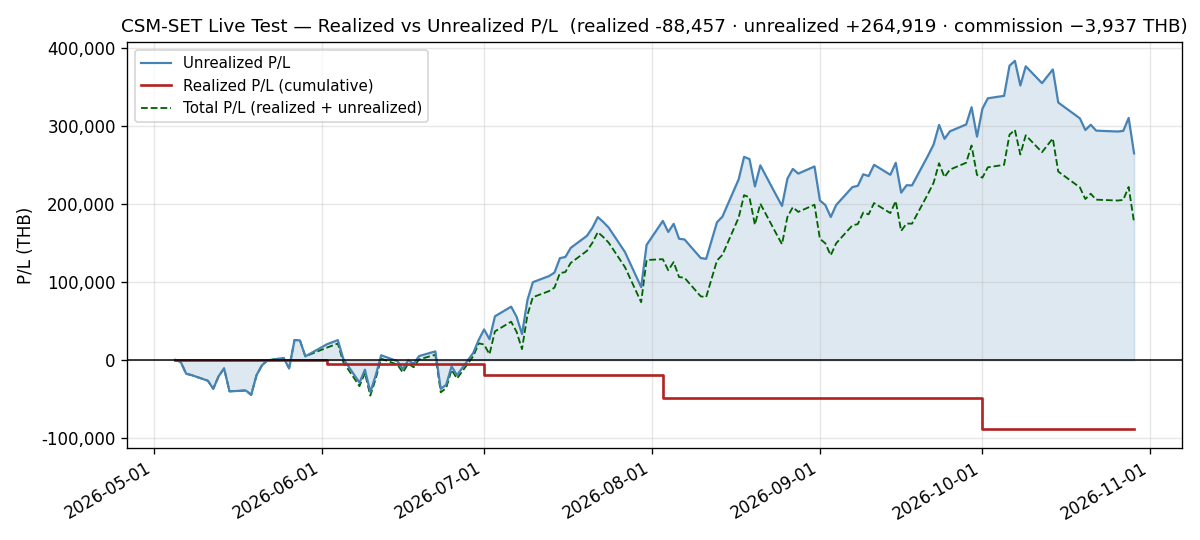
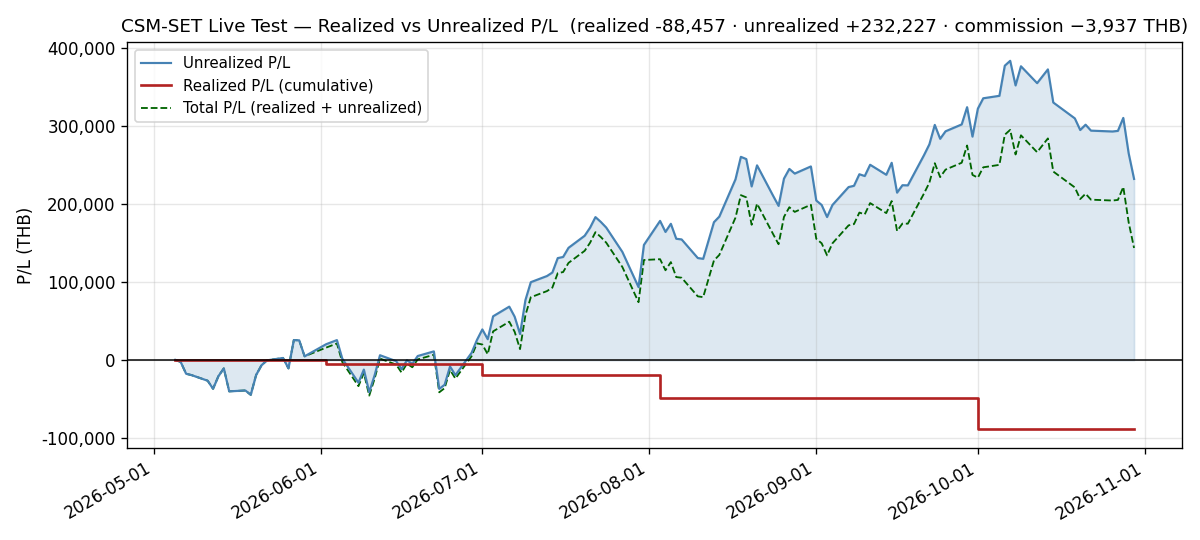
docs(live-test): add daily log for 2026-10-30 — the circuit breaker trips at the October evaluation close; NAV0 for the scored window
NAV 1,262,159.89 (−32,692.00, −2.5248%) with no trades, the lowest close since
2026-09-03. Total Return on NAV +12.69%. Breadth: 1 up, 8 down, 1 flat; the
SET fell −1.6839% to its lowest close since 2026-05-19, only +0.3740% above
its SMA200.

- Breaker: the registered procedure (DrawdownCircuitBreaker 60 / −10% / −5%
  x21) returns TRIPPED at this close, with a rolling drawdown of −10.7057% and
  an equity fraction of 0.20. The control on the series to 2026-10-29 returns
  NORMAL. Under the registration the book is scaled to 20% equity at the
  2026-11-02 ATO; the plan is in the October review.
- EMA100 per holding: EASTW (−10.36%) and FORTH (−5.71%) are below their own
  EMA100 at this close. GUNKUL is +0.06% above.
- This close is NAV0 = 1,262,159.89 for the 2026-11-02 to 2026-12-30 window.

pnl.csv extended to 121 rows. P/L PNG regenerated (365f79e5 → 7f77ebda); the
three NAV PNGs are byte-identical here (the month-end NAV-chart regeneration
ships with the October review). Checker 388/0; 6 of 6 mutants caught (M6 after
adding the carried-caveat guard).

Claude-Session: https://claude.ai/code/session_01VKyqnmKmz6Hh9ErHRFMhFr

diff --git a/docs/live-test/daily/2026-10-30.md b/docs/live-test/daily/2026-10-30.md
@@ -1,0 +1,304 @@
+# Daily Log — 2026-10-30 (Friday)
+
+**As of:** 2026-10-30, Asia/Bangkok
+**Phase:** C — Extended Observation
+**Day:** 122 / 41 trading days remaining in 2026
+**Status:** 🟡 **REGISTERED, NOT YET SCORED — and this close is the scored window's anchor, NAV₀ = 1,262,159.89 THB.** The forward scoring pre-registration (`reports/2026-10-27-forward-scoring-pre-registration.md`, `cc7bcb1`; confirmed *"keep"* 2026-10-29, `4606aa4`) scores **2026-11-02 to 2026-12-30** from this close. 🔴 **NAV closes at 1,262,159.89 THB, down −32,692.00 (−2.5248%)** with no trades, the lowest close since 2026-09-03. Total Return on NAV is **+12.69%**. 🔴 **THE CIRCUIT BREAKER TRIPS AT THIS CLOSE.** NAV stands **151,324.00 (−10.7057%) below the 2026-10-07 high**, past the design rule's −10% 60-session trigger, and the registered procedure returns **TRIPPED**. This is the month-end evaluation, so under the registration the book is **scaled to 20% equity at the 2026-11-02 ATO** (`monthly/2026-10.md`). 🔴 **EASTW and FORTH close below their own EMA100** and are sold by the per-holding rule. Breadth is **1 up, 8 down, 1 flat** against a SET that fell **−1.6839%** to its lowest close since 2026-05-19, **only 0.3740% above its SMA200**.
+
+---
+
+## Execution Summary
+
+**No trades today.** The October rotation was executed at the **2026-10-01 ATO** (SELL MGC, BUY CNT; `configs/live_portfolio.yaml` at `715eeb3`), so the file is unchanged since then and remains valid. Realized P/L for the session is **0.00 THB** and no commission was paid. **Today is the October evaluation**, the first under the 2026-10-27 registration. Its trade list, for the **2026-11-02 ATO**, is in `monthly/2026-10.md`. It is a plan; nothing has been placed.
+
+---
+
+## Portfolio Snapshot
+
+> 🟡 **Every figure in this section is REGISTERED, NOT YET SCORED.** This close is NAV₀ for the scored window, which begins with the 2026-11-02 session. It is produced from the **reconstructed series** (`csm.adapters.hooks._reconstruct_live_equity`, which reprices `configs/live_portfolio.yaml` against `data/processed/prices_latest.parquet`) and reconciled against **`db_gateway.daily_performance`**. Where a number below is quoted from a stored series, the series is named.
+
+`Avg Cost` is the commission-inclusive per-share basis carried from `configs/live_portfolio.yaml` (4-decimal precision); `Cost Basis = shares × Avg Cost`, and `U.PL % = MV / Cost Basis − 1`. Per-symbol values reproduce the broker statement exactly.
+
+| # | Symbol | Shares | Avg Cost | Last Price | Market Value (THB) | Cost Basis (THB) | U.PL % |
+|---|--------|-------:|---------:|-----------:|--------------------:|-----------------:|-------:|
+| 1 | KCE | 2,600 | 39.0655 | 68.75 | 178,750.00 | 101,570.30 | +75.99% |
+| 2 | GUNKUL | 30,800 | 2.9246 | 4.64 | 142,912.00 | 90,077.68 | +58.65% |
+| 3 | INSET | 42,000 | 3.0848 | 4.30 | 180,600.00 | 129,561.60 | +39.39% |
+| 4 | HANA | 3,000 | 35.8070 | 45.25 | 135,750.00 | 107,421.00 | +26.37% |
+| 5 | IRPC | 56,600 | 2.3037 | 2.60 | 147,160.00 | 130,389.42 | +12.86% |
+| 6 | EASTW | 24,000 | 4.2672 | 4.16 | 99,840.00 | 102,412.80 | −2.51% |
+| 7 | EPG | 17,300 | 5.9099 | 6.00 | 103,800.00 | 102,241.27 | +1.52% |
+| 8 | SMT | 20,400 | 5.8097 | 7.20 | 146,880.00 | 118,517.88 | +23.93% |
+| 9 | FORTH | 5,300 | 16.1270 | 13.30 | 70,490.00 | 85,473.10 | −17.53% |
+| 10 | CNT | 18,200 | 3.3456 | 3.00 | 54,600.00 | 60,889.92 | −10.33% |
+
+### Portfolio summary
+
+| Metric | Value |
+|--------|-------|
+| Total Cost Basis | 1,028,554.97 THB |
+| Total Market Value | 1,260,782.00 THB |
+| Unrealized P/L | +232,227.03 THB (+22.58%) |
+| Realized P/L (today) | **0.00 THB** |
+| Realized P/L (cumulative, since inception) | **−88,456.67 THB** |
+| Commission paid (cumulative) | **−3,936.97 THB** |
+
+### Account summary
+
+| Metric | Value |
+|--------|-------|
+| Remaining Cash | 1,377.89 THB |
+| Total NAV | 1,262,159.89 THB |
+| Total Return on NAV | +12.69% |
+
+> **Cost-basis note:** Total Cost Basis is unchanged at **1,028,554.97 THB** since the 2026-10-01 rotation, and the reconciliation delta against Σ per-symbol (`shares × avg_cost`, 4-dp) is **0.00 THB**.
+>
+> 🔴 **Above/below cost: 7 up / 3 down, from 8 / 2.** **EASTW went below cost** at **−2.51%** (−2,572.80 THB); it needs **+2.58%** to regain it. **FORTH** and **CNT** remain below.
+>
+> - 🔴 Lowest since 2026-08-03: **GUNKUL's +58.65%** and **EASTW's −2.51%**. Since 2026-08-28: **IRPC's +12.86%**. Since 2026-09-03: **HANA's +26.37%**. Since 2026-09-28: **KCE's +75.99%**. Since 2026-10-05: **FORTH's −17.53%**. Since 2026-10-22: **SMT's +23.93%** and **CNT's −10.33%**.
+> - 🟢 **INSET's +39.39%** is its highest since 2026-10-20.
+> - **EPG** is unchanged at **+1.52%**.
+>
+> **Dispersion narrowed to 93.52pp** (KCE +75.99% to FORTH −17.53%), from 93.58pp, **the narrowest since 2026-10-27**: the leader KCE lost **1.92pp** of cost and the laggard FORTH lost **1.86pp**.
+>
+> **Total P/L check:** realized + unrealized = −88,456.67 + 232,227.03 = **+143,770.36 THB**, down from +176,462.36 by exactly the −32,692.00 session move.
+
+---
+
+## Day-over-Day Change (vs Thursday October 29)
+
+| Symbol | Oct 29 Close | Oct 30 Close | Change | Change % | MV Contribution (THB) |
+|--------|-------------:|-------------:|-------:|---------:|----------------------:|
+| INSET | 4.26 | 4.30 | +0.04 | +0.94% | +1,680.00 |
+| EPG | 6.00 | 6.00 | 0.00 | 0.00% | 0.00 |
+| FORTH | 13.60 | 13.30 | -0.30 | -2.21% | -1,590.00 |
+| CNT | 3.10 | 3.00 | -0.10 | -3.23% | -1,820.00 |
+| KCE | 69.50 | 68.75 | -0.75 | -1.08% | -1,950.00 |
+| IRPC | 2.66 | 2.60 | -0.06 | -2.26% | -3,396.00 |
+| SMT | 7.45 | 7.20 | -0.25 | -3.36% | -5,100.00 |
+| EASTW | 4.42 | 4.16 | -0.26 | -5.88% | -6,240.00 |
+| GUNKUL | 4.86 | 4.64 | -0.22 | -4.53% | -6,776.00 |
+| HANA | 47.75 | 45.25 | -2.50 | -5.24% | -7,500.00 |
+| **Total** | | | | **-2.53%** | **-32,692.00** |
+
+**Breadth: 1 up, 8 down, 1 flat.**
+
+> The `Change %` on the Total row is the **market-value** change (−32,692.00 / 1,293,474.00 = −2.5275%), not the NAV change (−32,692.00 / 1,294,851.89 = −2.5248%). The two differ only because cash sits in the NAV denominator and not in the market-value one.
+
+**The fallers' −34,372.00 outweighed the one riser's +1,680.00.** Over the last two sessions NAV fell **−78,173.00**.
+
+- **Riser:** **INSET +0.94% (+1,680.00)**, at its highest close since 2026-10-20.
+- **Unchanged:** **EPG at 6.00**.
+- **Fallers:**
+  - **HANA −5.24% (−7,500.00)**, its worst session since 2026-08-20, at its lowest since 2026-09-03;
+  - **GUNKUL −4.53% (−6,776.00)**, its worst since 2026-09-30, at **4.64, its lowest close since 2026-07-07**;
+  - **EASTW −5.88% (−6,240.00)**, its worst since 2026-10-27, at **4.16, its lowest close since 2026-06-26**, below cost;
+  - **SMT −3.36% (−5,100.00)**, at its lowest since 2026-10-22;
+  - **IRPC −2.26% (−3,396.00)**, at its lowest since 2026-08-28;
+  - **KCE −1.08% (−1,950.00)**, at its lowest since 2026-09-28;
+  - **CNT −3.23% (−1,820.00)**, its worst since 2026-10-15, at its lowest since 2026-10-22;
+  - **FORTH −2.21% (−1,590.00)**, at its lowest since 2026-10-05.
+
+**The book fell −2.5248% against a SET that fell −1.6839%**, a **−0.8409pp** difference. That is a same-session arithmetic result, not a performance comparison (Market Context).
+
+---
+
+## Market Context
+
+| Indicator | Value | Source |
+|-----------|-------|--------|
+| SET Index | 1,518.59 | tvkit (TradingView) |
+| SET Open / High / Low | 1,522.28 / 1,529.48 / 1,511.58 | tvkit |
+| SET 200-day SMA | 1,512.9322 | tvkit (TradingView) |
+| Regime Estimate | BULL | SET +0.37% above SMA200 |
+
+> ⚠ **This is context, NOT a benchmark comparison, and it must not be read as one.**
+>
+> - **Different price bases.** `SET:SET` is a **price index**; the strategy series above is priced on **dividend-adjusted** bars (since `e04a292`, 2026-08-09). The difference is one-sided in the strategy's favour, and it is not small: measured 2026-09-11 over 2024-03-19 → 2026-09-10, the dividend adjustment is worth **+12.09 percentage points** on this universe, roughly **+4.8%/yr**.
+> - **Different windows.** The engine's own benchmark loader is given **no date bounds**. It compares **600 index points**, from 2024-05-10 in today's panel and a start that moves forward one session per session, against a strategy series that starts at the 2026-10-01 `entry_date`.
+> - **No alpha, excess return or outperformance figure is computed anywhere in this log.** The 2026-10-27 registration measures tracking error against this index only inside the scored window, and labels it a risk metric (§5).
+
+---
+
+## Regime State
+
+- **Detected regime:** BULL — SET (1,518.59) is above SMA200 (1,512.9322) by +0.3740%
+- **SMA200 position:** 1,512.9322 — SET closing at 1,518.59
+- **3-month return:** −7.46% (window-sensitive — see Notes)
+- **No regime-driven action** under the registration. The SET closed **−3.22% below its own EMA100**, the index-overlay condition. Under the registration that condition is reported and **not applied** (§4); the October review records it.
+
+**The SET path from the 2026-09-08 high reads 1,621.89 → 1,617.89 → 1,615.07 → 1,604.52 → 1,591.07 → 1,578.66 → 1,562.73 → 1,583.34 → 1,584.15 → 1,598.03 → 1,604.44 → 1,610.70 → 1,602.58 → 1,607.63 → 1,602.37 → 1,594.30 → 1,559.01 → 1,563.91 → 1,571.62 → 1,576.45 → 1,582.22 → 1,584.63 → 1,570.61 → 1,577.65 → 1,571.74 → 1,575.88 → 1,573.01 → 1,571.72 → 1,554.94 → 1,556.09 → 1,562.67 → 1,579.03 → 1,575.02 → 1,566.10 → 1,544.60 → 1,518.59**.
+
+- **Today:** a **−26.01 point, −1.6839%** session, the index's worst since 2026-09-30. It closed at its **lowest since 2026-05-19**, **−6.3691%** below the 2026-09-08 high.
+- **Range:** **17.90 points**, against 20.72 the prior session. The index opened at 1,522.28, below the prior close, reached 1,529.48, and closed 7.01 points above its low.
+- **Cushion fell 2.1806% → 0.3740%, a −1.8066pp step**: the largest one-session narrowing since 2026-09-30, leaving the cushion its **narrowest since 2025-09-04**. SMA200 rose again to **1,512.9322** (+1.2946).
+- 🔴 **A BULL→BEAR crossing needs the index only 5.66 points lower**, a further −0.37% at today's SMA200.
+
+The 3-month figure fell from −5.78% to −7.46%, its start bar moving from 2026-07-22 (1,639.34) to 2026-07-23 (1,641.03).
+
+---
+
+## Sector Concentration
+
+Groupings are those of the 2026-10-01 rotation (CONS for CNT, SET-official) and are unchanged today; percentages are directly comparable to the prior session for every sleeve.
+
+| Sector | Market Value (THB) | % of NAV | Limit | Status |
+|--------|--------------------:|---------:|-------|--------|
+| Energy & Utilities (ENERG) | 389,912 | 30.8924% | 35% | OK — 51,843.96 THB of headroom |
+| Electronic Components (ETRON) | 461,380 | 36.5548% | 35% | 🔴 **OVER — 19,624.04 THB, accepted known violation** |
+| ICT | 251,090 | 19.8937% | 35% | OK |
+| Construction Materials (CONMAT) | 103,800 | 8.2240% | 35% | OK |
+| Construction Services (CONS) | 54,600 | 4.3259% | 5% floor | 🔴 **UNDER — 8,507.99 THB, accepted known violation** |
+
+🔴 **ETRON's excess narrowed to 19,624.04 THB, its narrowest since 2026-10-27**, from 22,731.84 on 2026-10-29.
+
+- It fell **−0.2008pp to 36.5548%**, its lowest weight since 2026-10-27.
+- The sleeve's market value fell 14,550.00 (HANA −7,500.00, SMT −5,100.00, KCE −1,950.00), while the cap fell 11,442.20 with NAV.
+- **It narrowed by losing value, not by a trade, and it remains over the cap.** [[TK-0279]]
+
+🔴 **CNT's gap widened to 8,507.99 THB, its widest since 2026-10-28**, from 8,322.59.
+
+- CNT fell −1,820.00, more than the floor fell (1,634.60 with NAV); the gap grew by the **185.40** difference.
+- **CONS fell −0.0314pp to 4.3259%**, its lowest since 2026-10-28.
+- **CNT clears at 3.4921, +16.40%.** [[TK-0279]]
+
+**The other sleeves:**
+
+- **ENERG fell −0.4876pp to 30.8924%**, its lowest since 2026-08-03: GUNKUL (−6,776.00), EASTW (−6,240.00) and IRPC (−3,396.00) all fell.
+- **ICT rose +0.5092pp to 19.8937%**, its highest since 2026-10-12. INSET rose while FORTH fell, and the sleeve gained against a falling NAV.
+- **CONMAT rose +0.2076pp to 8.2240%** with EPG unchanged; its highest since 2026-10-28.
+- The two large sleeves hold **67.4472% of NAV** together.
+
+**At the ceiling end, INSET is now the largest position**, for the first time since 2026-10-12:
+
+| Name | Weight | Inside the 15% ceiling | Goes over at |
+|---|---:|---:|---|
+| INSET | 14.3088% | 8,723.98 THB | 4.5444 (+5.68%) |
+| KCE | 14.1622% | 10,573.98 THB | 73.5346 (+6.96%) |
+
+INSET leads KCE by 1,850.00 THB, and its weight is its highest since 2026-10-12. At the floor end, **FORTH is 5.5849%**, its highest weight since 2026-10-27. It is 7,382.01 THB above the 5% floor and goes under at **11.8339 (−11.02%)**.
+
+---
+
+## Risk Notes
+
+1. 🟡 **THE OCTOBER EVALUATION RAN ON THIS CLOSE — the first under the registration, and NAV₀ for the scored window.**
+   - The registration is unamended (`cc7bcb1`), confirmed *"keep"* on 2026-10-29 (`4606aa4`).
+   - **NAV₀ = 1,262,159.89 THB**, the anchor of the 2026-11-02 to 2026-12-30 window.
+   - The evaluation's verdicts, rule by rule, and the ATO trade list are in `monthly/2026-10.md`. Nothing is placed until the operator places it, and `configs/live_portfolio.yaml` changes only after fills.
+2. 🔴 **NAV fell −32,692.00 (−2.5248%) to 1,262,159.89** (`daily_performance`).
+   - It is the **lowest close since 2026-09-03**, and the two sessions to it lost **−78,173.00**.
+   - It stands **151,324.00 (−10.7057%) below the 2026-10-07 high**, and **90,051.00 below the book's 2026-10-01 post-rotation value** (1,352,210.89, `equity_curve`).
+   - Total Return on NAV is **+12.69%**.
+3. 🔴 **ACCEPTED KNOWN VIOLATION — ETRON 36.5548%, 19,624.04 THB over the 35% cap** (operator decision D2), **its narrowest excess since 2026-10-27**. It narrowed from 22,731.84 without a trade. Under the registration, bounds bind at construction on the names being traded (§8). [[TK-0279]]
+4. 🔴 **ACCEPTED KNOWN VIOLATION — CNT 4.3259%, 8,507.99 THB under the 5% floor and the whole CONS sleeve** (D2), **its widest gap since 2026-10-28**. CNT clears at **3.4921 (+16.40%)**. [[TK-0279]]
+5. 🔴 **EMA100, per holding, at the evaluation close — two holdings below.** EMA100 = `ewm(span=100, adjust=False, min_periods=100)` of each close in `prices_latest.parquet` (§4).
+
+   | Name | Close | Own EMA100 | Distance |
+   |---|---:|---:|---:|
+   | EASTW | 4.16 | 4.6410 | **−10.36%** (below) |
+   | FORTH | 13.30 | 14.1058 | **−5.71%** (below) |
+   | GUNKUL | 4.64 | 4.6374 | +0.06% |
+
+   - Every other holding is at least **+1.83%** (INSET) above its own EMA100.
+   - **The SET closed −3.22% below its own EMA100** (1,569.1037). That is the index-overlay condition, reported and not applied (§4).
+6. 🟢 **`equity_curve` and `daily_performance` agree on the new day**, both **1,262,159.89**. The 2026-10-01 rows still differ by 2,385.81 by design (post-trade against pre-trade).
+7. 🟢 **Today's `daily_return` (−2.5248%) equals this log's headline.**
+   - ⚠ `cumulative_return` is anchored to the 2026-10-01 `entry_date` and reads **−6.66%** against a true **+12.69%**; its anchor is the post-rotation value of Risk Note 2.
+   - `combined_drawdown` reads **−10.71%**: the maximum drawdown inside the post-`entry_date` window, **set today** and equal to today's distance from the high.
+   - Both are the documented truncations, not new defects.
+8. 🔴 **CIRCUIT BREAKER — TRIPPED.**
+   - **Procedure:** `DrawdownCircuitBreaker` with the recorded parameters (60 sessions, −10% trip, −5% recovery over 21 sessions), run on the `daily_performance` NAV series. It returns **TRIPPED** (from NORMAL), with a rolling drawdown of **−10.7057%** and an equity fraction of **0.20**.
+   - **Negative control:** the same call on the series to 2026-10-29 returns NORMAL (−8.3929%).
+   - NAV closed **9,975.61 THB below the 1,272,135.50 trip level**.
+   - **Under the registration the evaluation acts on it: the book is scaled to 20% equity at the 2026-11-02 ATO** (§6 #8). The scaling and its sizing are in `monthly/2026-10.md`.
+   - **Recovery** needs the 60-session rolling drawdown above −5%, held for 21 sessions. The 2026-10-07 peak stays inside the window through 2026-12-30, 55 sessions after it, so recovery inside the scored window needs NAV back above **1,342,809.70**.
+   - **The 1,064,000 THB line** (5% below `starting_nav`) has NAV **+198,159.89** (15.70%) above it. Under the registration it is a reporting line and carries no action.
+9. 🟢 **The refresh ran clean** on image `e56ad7660dd4`.
+   - Attempt 1 recovered all 201 universe symbols (`requested=201 recovered=201 still_failing=0`) in **125.169s**, and **no symbol failed** (`failures=0`, `held_symbols_failed=0`).
+   - The container has not restarted since the 2026-10-28 20:49 BKK recreate.
+10. 🟢 **The uncredited dividend total holds at 8,927.00 THB**: KCE 1,560.00, INSET 2,100.00, MGC 2,208.00, FORTH 795.00, IRPC 2,264.00.
+    - That is **0.71% of NAV** and **6.21%** of the +143,770.36 total P/L.
+    - There is still no dividend-accrual path in the book (registration §8).
+11. ⚠ **INFRA — the image runs one library release behind the lock, by operator choice.**
+    - The lock was updated on 2026-10-29 (`89ad35b`), and the repository audit is green.
+    - The rebuild is deferred until after the 2026-11-02 ATO (operator option B), so this evaluation's refresh ran on the image that also ran the 2026-10-28 and 2026-10-29 refreshes.
+    - **`:8100` is still bound to loopback only.**
+12. ⚠ **DOC — the `csm-set-daily-log` skill's `daily_return` guidance remains stale.**
+    - Its Step 3 still calls the field *"an open defect, not yet fixed in code"*; **it was fixed 2026-09-02**.
+    - Today `daily_return` reads **−2.5248%** and agrees with this log's headline exactly.
+    - **Thirty-sixth log to carry this.**
+13. **Open decisions — answered for the scored window only, by the registration's §8.**
+
+    | Decision | Registered for the window |
+    |---|---|
+    | EMA100 | per holding |
+    | Bands | bind at construction, on the names being traded |
+    | Sizing | current proceeds-plus-cash practice (`fix-notional-not-shares`) |
+    | Price history | the published NAV, frozen at publication |
+    | Dividends | not credited, reported beside each score |
+
+    The wider questions stay open where they are filed ([[TK-0279]], the event reports).
+
+---
+
+## Notes
+
+- **Scheduled refresh completed via APScheduler with zero failures.**
+  - `"Scheduled daily_refresh completed"` at **2026-10-30T11:02:07Z** (18:02 BKK).
+  - It was the 18:00 cron firing (`cron[... day_of_week='mon-fri', hour='18', minute='0']`, started 11:00:00Z), not a manual `POST /api/v1/scheduler/run/daily_refresh`.
+  - Receipt: `symbols_fetched=211, failures=0, duration_seconds=125.169, held_symbols_fetched=10, held_symbols_failed=0, retry_attempts_used=0, index_fetched=true`, corroborated by `results/.tmp/last_refresh.json`.
+  - The held phase ended `requested=10 recovered=10 still_failing=0` at 11:00:07Z.
+  - The next run is scheduled for **2026-11-02 18:00 +07**.
+- **The container runs image `e56ad7660dd4`.**
+  - `Created` 2026-10-28T13:49:18Z, `StartedAt` 13:49:23Z, `RestartCount` 0. `FinishedAt` is unset (0001-01-01) because this container has never stopped.
+  - The host has not rebooted since 2026-10-06 (`uptime -s` 2026-10-06 10:46:02).
+- **`SET:THCOM` was fetched with 600 bars again.**
+- **The price panel and the prior log agree on all ten names**, so **nothing was restated**.
+- **The panel's row count fell 909 → 908.** Every row still carries a 09:55 Bangkok stamp, the column count is unchanged at **211**, and no session date is duplicated.
+- **Row-integrity checks pass.** `db_csm_set.equity_curve` holds **exactly one row per trading day at `00:00:00+00`** (121 rows, 121 dates, none off midnight), and today's row equals `daily_performance.total_value`.
+- **`configs/live_portfolio.yaml` is unchanged** since the 2026-10-01 rotation (`715eeb3`).
+- **The P/L identity holds and its residual is unchanged.** `realized_cum + unrealized − (NAV − starting_nav)` = −88,456.67 + 232,227.03 − 142,159.89 = **1,610.47 THB**, the value it stepped to at the 2026-10-01 rotation.
+- **Every figure was verified rather than asserted.**
+  - Σ position market value equals Total Market Value exactly (1,260,782.00).
+  - **Total NAV (1,262,159.89) equals `db_gateway.daily_performance.total_value` to the satang.**
+  - Σ (shares × price change) equals the market-value change (−32,692.00) exactly.
+  - The sector table sums to Total Market Value exactly.
+  - Σ per-symbol cost basis matches Total Cost Basis with a **0.00** delta, and the position count is 10.
+  - All money arithmetic used `Decimal` with explicit half-up rounding, and so did SMA200:
+
+    | Name | Weight | Distance | Level |
+    |---|---:|---|---|
+    | ETRON | 36.5548% | 19,624.04 THB over the cap | — |
+    | CNT | 4.3259% | 8,507.99 THB under a 63,107.99 floor | clears at 3.4921 |
+    | FORTH | 5.5849% | — | under at 11.8339 |
+    | KCE | 14.1622% | — | over at 73.5346 |
+    | INSET | 14.3088% | — | over at 4.5444 |
+- **Realized P/L and commission ledger — both unchanged, no trades today.** Realized cumulative **−88,456.67 THB** (2026-06-02 −4,351.87 · 2026-07-01 −14,964.06 · 2026-08-03 −29,775.45 · 2026-10-01 −39,365.29). Commission cumulative **−3,936.97 THB**.
+- **Capital events to date, unchanged.** `starting_nav` 1,120,000 after 1,000,000 → 1,100,000 (2026-06-04, +100,000) → 1,120,000 (2026-08-03, +20,000). The 2026-10-01 rotation added no capital.
+- **Every superlative was computed, and each names its window.**
+
+  | Claim | Window | Source |
+  |---|---|---|
+  | Best-, worst-, highest- and lowest-since dates of the named stocks; U.PL readings; sector, INSET, KCE and FORTH weight readings; the dispersion | since 2026-08-03 | all 60 prior published logs; for prices, the panel from 2026-08-03 |
+  | GUNKUL's and EASTW's low closes | the whole panel, which starts 2024-05-10 | the panel |
+  | ETRON's excess, CNT's gap, CONS's weight | the breach that began 2026-10-01 | published logs |
+  | NAV figures, the drawdown, the post-rotation value | full series | `db_gateway.daily_performance`, `db_gateway.portfolio_snapshot`, `db_csm_set.equity_curve` |
+  | Index figures, the cushion | bars fetched back to 2024-09-06 | tvkit |
+- **3-month return figure is window-sensitive.** −7.46% is measured over the trailing 66 bars from today's close (start bar 2026-07-23, 1,641.03) and moves materially with the start bar (Regime State). The regime estimate does not use it.
+- **Follow-ups for the next session (Monday 2026-11-02 18:00 +07), the first scored session.**
+
+  | | Item | Level |
+  |---|---|---|
+  | (a) | the ATO rotation and fills | trade list in `monthly/2026-10.md` |
+  | (b) | the breaker state, threaded each session | TRIPPED; recovery above 1,342,809.70 |
+  | (c) | the regime cushion | 5.66 points above a crossing |
+  | (d) | `configs/live_portfolio.yaml` | updated only from the operator's fills |
+
+  **The eight follow-ups from 2026-10-29 are closed above:** (a) Risk Note 8, (b) Risk Note 5, (c) Risk Note 3, (d) Risk Note 4, (e) Sector Concentration, (f) Sector Concentration, (g) the cost-basis note (EASTW below cost; EPG unchanged), (h) Regime State.
+- **Calendar.** 2026-10-30 was a trading session.
+  - The 18:00 firing read the banked SET holiday calendar (`results/.tmp/set_holidays.json`) at `captured_at 2026-10-30T10:50:09Z`.
+  - It lists the next 2026 closures as **2026-12-07** and **2026-12-10**.
+  - The next session is **2026-11-02**.
+  - No trading hours are stated anywhere in this log.
+- Data fetched via tvkit (TradingView, free tier): all 10 held-symbol prices from the 18:00 BKK scheduled-cron refresh; SET Index context anchored explicitly to the 2026-10-30 bar. ⚠ **The vendor back-adjusts a symbol's entire history on an ex-dividend date**, so any prior-session price quoted here is the vendor's *current* view of that session and not necessarily what was published at the time.

diff --git a/docs/live-test/graphs/README.md b/docs/live-test/graphs/README.md
@@ -3,7 +3,7 @@
 _🟢 **All four PNGs are on ONE date — the September month-end, 2026-09-30.** The three **NAV** charts
 (`equity_curve`, `drawdown`, `monthly_returns`) were regenerated on 2026-09-30 from `nav_actual.csv` /
 `nav_twr.csv` extended to **102 points** (2026-05-04 → 2026-09-30). `pnl_realized_unrealized.png` is newer:
-regenerated on 2026-10-29 from `pnl.csv` (**120 rows**, through 2026-10-29; its newest realized step is the 2026-10-01 rotation's). ⚠ **The September rows of the two NAV CSVs
+regenerated on 2026-10-30 from `pnl.csv` (**121 rows**, through 2026-10-30; its newest realized step is the 2026-10-01 rotation's). ⚠ **The September rows of the two NAV CSVs
 come from `db_gateway.daily_performance`, not `equity_curve`** — IRPC's 2026-09-09 restatement rewrote the
 `equity_curve` rows it would otherwise have supplied; see the 2026-09-30 History entry. `pnl.csv` is built
 from the daily logs' figures (the un-restated `daily_performance` basis), so it does not agree with
@@ -241,14 +241,28 @@ restatement has rewritten `equity_curve` rows inside the month being appended, *
 | `monthly_returns.png` | May **+0.33%** · Jun **+1.44%** · Jul **+9.53%** · Aug **+5.68%** · Sep **+2.90%** (no flow in September, so the TWR and actual-NAV figures agree) |
 | **August bar is the TWR figure** | **+5.68%**, NOT the reported +7.40% and NOT the ex-injection +5.77%. Feeding `nav_actual.csv` instead reproduces the documented failure mode — **Jun +11.62%** and Aug +7.40% |
 | June bar vs the June review | must read **+1.44%**, not +11.62% |
-| `pnl_realized_unrealized.png` *(the 2026-10-29 PNG, through 10-29)* | realized **−88,456.67** · unrealized **+264,919.03** · commission **−3,936.97** THB; the realized line is **flat except at 2026-06-02, 2026-07-01, 2026-08-03 and 2026-10-01** — **four** steps. *(The 2026-10-28 PNG read the same realized and commission with unrealized +310,400.03 at 119 points; the 2026-10-27 PNG read the same realized and commission with unrealized +293,787.03 at 118 points; the 2026-10-26 PNG read the same realized and commission with unrealized +293,003.03 at 117 points; the 2026-10-22 PNG read the same realized and commission with unrealized +294,101.03 at 116 points; the 2026-10-21 PNG read the same realized and commission with unrealized +301,696.03 at 115 points; the 2026-10-20 PNG read the same realized and commission with unrealized +294,904.03 at 114 points; the 2026-10-19 PNG read the same realized and commission with unrealized +309,815.03 at 113 points; the 2026-10-15 PNG read the same realized and commission with unrealized +330,143.03 at 112 points; the 2026-10-14 PNG read the same realized and commission with unrealized +372,572.03 at 111 points; the 2026-10-12 PNG read the same realized and commission with unrealized +354,949.03 at 110 points; the 2026-10-09 PNG +376,567.03 at 109; the 2026-10-08 PNG +352,021.03 at 108; the 2026-10-07 PNG +383,551.03 at 107; the 2026-10-06 PNG +377,303.03 at 106; the 2026-10-05 PNG +338,709.03 at 105; the 2026-10-02 PNG +335,559.03 at 104; the 2026-10-01 PNG +322,278.03 at 103.)* *(The 2026-08-31 PNG read:* realized **−49,091.38** · unrealized **+248,232.35** · commission **−3,735.16** THB; the realized line is **flat except at 2026-06-02, 2026-07-01 and 2026-08-03** — **three** steps.) *(The superseded 2026-08-28 render showed −49,091.38 / +239,078.35 at 79 points; the 2026-08-27 one showed −49,091.38 / +245,069.35 at 78 points; the 2026-08-26 one showed −49,091.38 / +232,605.35 at 77 points; the 2026-08-25 one showed −49,091.38 / +197,671.35 at 76 points; the 2026-08-24 one showed −49,091.38 / +210,441.35 at 75 points; the 2026-08-21 one showed −49,091.38 / +249,619.35 at 74 points; the 2026-08-20 one showed −49,091.38 / +222,599.35 at 73 points; the 2026-08-19 one showed −49,091.38 / +257,693.35 at 72 points; the 2026-08-18 one showed −49,091.38 / +260,527.35 at 71 points; the 2026-08-17 one showed −49,091.38 / +231,713.35 at 70 points; the 2026-08-14 one −49,091.38 / +183,951.35 at 69 points; the 2026-08-12 one −49,091.38 / +129,844.35 at 67 points; the 2026-08-01 one −19,315.93 / +147,665.89 / −3,052.51 and only two steps.)* |
-| `pnl.csv` last row *(the CSV and the P/L PNG are in sync — see the header)* | 2026-10-29: realized **−88,456.67** · unrealized **+264,919.03** · total **+176,462.36** · commission **3,936.97** THB; **120 rows**, matching `equity_curve`'s 120 **in row count only** *(↻ this row read 2026-08-31 / 80 rows until 2026-10-02: the September daily runs extended the CSV without updating it; it is updated with each session's History entry since)* — the values diverge historically after the KCE, INSET, MGC *and* FORTH restatements (see the header caveat) |
+| `pnl_realized_unrealized.png` *(the 2026-10-30 PNG, through 10-30)* | realized **−88,456.67** · unrealized **+232,227.03** · commission **−3,936.97** THB; the realized line is **flat except at 2026-06-02, 2026-07-01, 2026-08-03 and 2026-10-01** — **four** steps. *(The 2026-10-29 PNG read the same realized and commission with unrealized +264,919.03 at 120 points; the 2026-10-28 PNG read the same realized and commission with unrealized +310,400.03 at 119 points; the 2026-10-27 PNG read the same realized and commission with unrealized +293,787.03 at 118 points; the 2026-10-26 PNG read the same realized and commission with unrealized +293,003.03 at 117 points; the 2026-10-22 PNG read the same realized and commission with unrealized +294,101.03 at 116 points; the 2026-10-21 PNG read the same realized and commission with unrealized +301,696.03 at 115 points; the 2026-10-20 PNG read the same realized and commission with unrealized +294,904.03 at 114 points; the 2026-10-19 PNG read the same realized and commission with unrealized +309,815.03 at 113 points; the 2026-10-15 PNG read the same realized and commission with unrealized +330,143.03 at 112 points; the 2026-10-14 PNG read the same realized and commission with unrealized +372,572.03 at 111 points; the 2026-10-12 PNG read the same realized and commission with unrealized +354,949.03 at 110 points; the 2026-10-09 PNG +376,567.03 at 109; the 2026-10-08 PNG +352,021.03 at 108; the 2026-10-07 PNG +383,551.03 at 107; the 2026-10-06 PNG +377,303.03 at 106; the 2026-10-05 PNG +338,709.03 at 105; the 2026-10-02 PNG +335,559.03 at 104; the 2026-10-01 PNG +322,278.03 at 103.)* *(The 2026-08-31 PNG read:* realized **−49,091.38** · unrealized **+248,232.35** · commission **−3,735.16** THB; the realized line is **flat except at 2026-06-02, 2026-07-01 and 2026-08-03** — **three** steps.) *(The superseded 2026-08-28 render showed −49,091.38 / +239,078.35 at 79 points; the 2026-08-27 one showed −49,091.38 / +245,069.35 at 78 points; the 2026-08-26 one showed −49,091.38 / +232,605.35 at 77 points; the 2026-08-25 one showed −49,091.38 / +197,671.35 at 76 points; the 2026-08-24 one showed −49,091.38 / +210,441.35 at 75 points; the 2026-08-21 one showed −49,091.38 / +249,619.35 at 74 points; the 2026-08-20 one showed −49,091.38 / +222,599.35 at 73 points; the 2026-08-19 one showed −49,091.38 / +257,693.35 at 72 points; the 2026-08-18 one showed −49,091.38 / +260,527.35 at 71 points; the 2026-08-17 one showed −49,091.38 / +231,713.35 at 70 points; the 2026-08-14 one −49,091.38 / +183,951.35 at 69 points; the 2026-08-12 one −49,091.38 / +129,844.35 at 67 points; the 2026-08-01 one −19,315.93 / +147,665.89 / −3,052.51 and only two steps.)* |
+| `pnl.csv` last row *(the CSV and the P/L PNG are in sync — see the header)* | 2026-10-30: realized **−88,456.67** · unrealized **+232,227.03** · total **+143,770.36** · commission **3,936.97** THB; **121 rows**, matching `equity_curve`'s 121 **in row count only** *(↻ this row read 2026-08-31 / 80 rows until 2026-10-02: the September daily runs extended the CSV without updating it; it is updated with each session's History entry since)* — the values diverge historically after the KCE, INSET, MGC *and* FORTH restatements (see the header caveat) |
 | The August regeneration *(**done** 2026-08-12, **superseded** by the 2026-08-14, 2026-08-17, 2026-08-18, 2026-08-19, 2026-08-20, 2026-08-21, 2026-08-24, 2026-08-25, 2026-08-26, 2026-08-27, 2026-08-28 and then the 2026-08-31 render)* | ✅ satisfied — the current PNG title reads `realized -49,091 · unrealized +248,232 · commission −3,735 THB`, the series ends 2026-08-31 at 80 points, and the realized line steps **three** times. Verified by eye against the rendered image, not only from the generator's stdout |
 | Only ONE PNG may change on a P/L regeneration | ✅ `gen_pnl_chart.py:118` writes `pnl_realized_unrealized.png` and nothing else. Checksum the four PNGs before and after: the three NAV charts must be **byte-identical** and keep their 2026-08-01 mtimes. Verified 2026-08-14, 2026-08-17, 2026-08-18, 2026-08-19, 2026-08-20, 2026-08-21, 2026-08-24, 2026-08-25, 2026-08-26, 2026-08-27, 2026-08-28 and 2026-08-31 — only the P/L PNG's hash moved on all twelve |
 | P/L reconciliation | `realized_cum + unrealized − (NAV − capital)` = **1,610.47** from 2026-10-01 (**1,610.27** for 2026-08-03 → 2026-09-30, **1,609.61** for 2026-05-29 → 2026-07-31), and constant *within* each era; the 2026-10-01 step is **+0.20**, CNT's 4-dp `avg_cost` rounding. A *drifting* residual means a realisation was missed; the one-time **+0.66** step at the rotation is 4-dp `avg_cost` rounding — see above |
 | `commission_cum` | rises **only on the 7 fill dates** (05-05, 06-02, 06-04, 06-05, 07-01, 08-03, **10-01**); a rise on any other day means a non-trading day was credited with a fill |
 
 ## History
+
+**`pnl.csv` extended through 2026-10-30** on 2026-10-30, appending the **2026-10-30** row — one row,
+the eighteenth and last session of the rotated October book. `realized_cum` and `commission_cum` are
+unchanged (no trade since the 2026-10-01 rotation), so the whole movement is the unrealized leg
+(+264,919.03 → **+232,227.03**, a **−32,692.00** session). `total_pl` (**+143,770.36**) is its lowest
+since 2026-09-03 and stands 151,324.00 below the +295,094.36 maximum of 2026-10-07. The reconciliation
+residual holds at **1,610.47**. **`pnl_realized_unrealized.png` was regenerated in the same session**,
+so the two artifacts end together at **121 points**; the four PNGs were checksummed (md5) before and
+after and the three NAV charts are byte-identical (`drawdown` 02a92127…, `equity_curve` 7b1c0816…,
+`monthly_returns` a661bb50…), with only the P/L chart's hash moving (365f79e5… → **7f77ebda…**). The
+October month-end regeneration of the three NAV charts is recorded separately, with the October
+review. Every point in the series is **pre-registration history — seen, not scored**; the 2026-10-30
+close is the scored window's anchor NAV₀ under the forward scoring pre-registration of 2026-10-27
+(`../reports/2026-10-27-forward-scoring-pre-registration.md`), which scores 2026-11-02 → 2026-12-30.
 
 **`pnl.csv` extended through 2026-10-29** on 2026-10-29, appending the **2026-10-29** row — one row,
 the seventeenth session of the rotated book. `realized_cum` and `commission_cum` are unchanged (no trade
